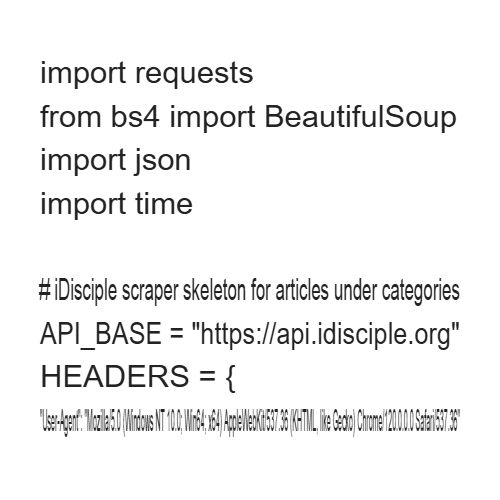
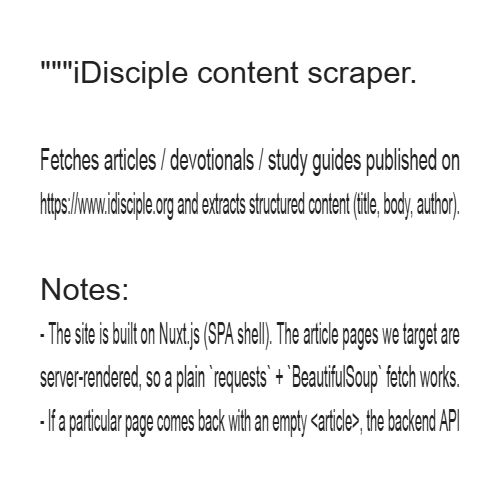
feat: add iDisciple content scraper script

diff --git a/script/py/scraper.py b/script/py/scraper.py
@@ -1,46 +1,226 @@
+"""iDisciple content scraper.
+
+Fetches content (articles / devotionals / growth plans) published on
+https://www.idisciple.org and extracts structured content (title, body, author).
+
+Notes:
+- The site is built on Nuxt.js (SPA shell). The content pages we target are
+  server-rendered, so plain `requests` + `BeautifulSoup` works.
+- If a page comes back with an empty body, use the backend API or a browser driver.
+"""
+
+from __future__ import annotations
+
+import argparse
+import json
+import re
+import time
+from pathlib import Path
+from typing import Any, Dict, List, Optional
+from urllib.parse import urljoin
+
 import requests
 from bs4 import BeautifulSoup
-import json
-import time
+from requests.adapters import HTTPAdapter
+from urllib3.util.retry import Retry
 
-# iDisciple scraper skeleton for articles under categories
+SITE_URL = "https://www.idisciple.org"
 API_BASE = "https://api.idisciple.org"
+DEFAULT_HISTORY_FILE = r"C:\src\poc\script\py\idisciple_history.json"
+
 HEADERS = {
-    "User-Agent": "Mozilla/5.0 (Windows NT 10.0; Win64; x64) AppleWebKit/537.36 (KHTML, like Gecko) Chrome/120.0.0.0 Safari/537.36"
+    "User-Agent": (
+        "Mozilla/5.0 (Windows NT 10.0; Win64; x64) AppleWebKit/537.36 "
+        "(KHTML, like Gecko) Chrome/120.0.0.0 Safari/537.36"
+    ),
+    "Accept": "text/html,application/xhtml+xml,application/xml;q=0.9,*/*;q=0.8",
+    "Accept-Language": "en-US,en;q=0.9",
 }
 
-def get_categories():
-    # You can fetch categories from the main site or load them from a predefined list
-    url = "https://www.idisciple.org/categories"
-    resp = requests.get(url, headers=HEADERS)
-    print(f"Fetched categories page: {resp.status_code}")
-    # In a full pipeline, parse Nuxt payload or HTML links here.
+TIMEOUT_SECONDS = 30
+MAX_RETRIES = 3
+RETRY_STATUS_CODES = (429, 500, 502, 503, 504)
+REQUEST_DELAY_SECONDS = 0.5
 
-def scrape_article(article_url):
-    print(f"Scraping article: {article_url}")
-    resp = requests.get(article_url, headers=HEADERS)
-    if resp.status_code != 200:
-        print(f"Failed to fetch {article_url}: Status {resp.status_code}")
-        return None
-    
-    soup = BeautifulSoup(resp.text, 'html.parser')
-    
-    # Extract title, body, author, etc. based on typical iDisciple article page structure
-    title = soup.find('h1')
-    title_text = title.get_text(strip=True) if title else "No Title"
-    
-    # Extract main article content body
-    body_container = soup.find('article') or soup.find('div', class_=lambda x: x and 'content' in x.lower())
-    body_text = body_container.get_text(separator='\n', strip=True) if body_container else ""
-    
-    article_data = {
-        "url": article_url,
-        "title": title_text,
-        "body": body_text
-    }
-    return article_data
+SESSION = requests.Session()
+SESSION.headers.update(HEADERS)
+SESSION.mount(
+    "https://",
+    HTTPAdapter(
+        max_retries=Retry(
+            total=MAX_RETRIES, backoff_factor=1.0, status_forcelist=list(RETRY_STATUS_CODES)
+        )
+    ),
+)
+SESSION.mount(
+    "http://",
+    HTTPAdapter(
+        max_retries=Retry(
+            total=MAX_RETRIES, backoff_factor=1.0, status_forcelist=list(RETRY_STATUS_CODES)
+        )
+    ),
+)
+
+MIN_BODY_CHARS = 80
+BANNED_CLASS_PARTS = ("nav", "footer", "header", "aside", "sidebar", "related", "breadcrumb", "ad")
+BANNED_TAGS = ("nav", "footer", "header", "aside")
+
+
+def _fetch(url: str) -> str:
+    """GET a URL with retries/timeouts; raise on final failure."""
+    resp = SESSION.get(url, timeout=TIMEOUT_SECONDS)
+    resp.raise_for_status()
+    return resp.text
+
+
+def _clean_text(value: str) -> str:
+    """Collapse whitespace and strip stray newlines."""
+    lines = [re.sub(r"\s+", " ", line).strip() for line in value.split("\n")]
+    return "\n".join(line for line in lines if line)
+
+
+def _extract_title(soup: BeautifulSoup) -> str:
+    h1 = soup.find("h1")
+    if h1:
+        title = h1.get_text(strip=True)
+        if title:
+            return title
+    og = soup.find("meta", property="og:title")
+    if og and og.get("content"):
+        return og["content"]
+    tag = soup.find("title")
+    if tag:
+        return tag.get_text(strip=True)
+    return ""
+
+
+def _contains_banned(el: BeautifulSoup) -> bool:
+    stack = [el]
+    while stack:
+        node = stack.pop()
+        if node.name is not None and str(node.name).lower() in BANNED_TAGS:
+            return True
+        classes = " ".join(node.get("class") or []).lower()
+        if any(part in classes for part in BANNED_CLASS_PARTS):
+            return True
+        stack.extend(node.find_all(True))
+    return False
+
+
+def _extract_body(soup: BeautifulSoup) -> str:
+    article = soup.find("article")
+    if article is not None and len(_clean_text(article.get_text(separator="\n", strip=True))) >= MIN_BODY_CHARS:
+        for unwanted in article.find_all(["script", "style", "noscript", "svg", "iframe"]):
+            unwanted.decompose()
+        return _clean_text(article.get_text(separator="\n", strip=True))
+
+    main = soup.find("main")
+    if main is not None and len(_clean_text(main.get_text(separator="\n", strip=True))) >= MIN_BODY_CHARS:
+        for unwanted in main.find_all(["script", "style", "noscript", "svg", "iframe"]):
+            unwanted.decompose()
+        return _clean_text(main.get_text(separator="\n", strip=True))
+
+    best: Optional[BeautifulSoup] = None
+    best_text = ""
+    for el in soup.find_all(["div", "section", "article", "main"]):
+        if _contains_banned(el):
+            continue
+        for unwanted in el.find_all(["script", "style", "noscript", "svg", "iframe"]):
+            unwanted.decompose()
+        text = _clean_text(el.get_text(separator="\n", strip=True))
+        if len(text) > len(best_text):
+            best, best_text = el, text
+    if best is not None and len(best_text) >= MIN_BODY_CHARS:
+        return best_text
+    return best_text
+
+
+def _extract_author(soup: BeautifulSoup, body: str) -> str:
+    author = ""
+    author_tag = soup.find("meta", attrs={"name": "author"})
+    if author_tag and author_tag.get("content"):
+        author = author_tag["content"].strip()
+    if not author:
+        match = re.search(r"Written by[:\-]?\s+(.+)", body, re.IGNORECASE)
+        if match:
+            author = match.group(1).strip()
+    return author
+
+
+def scrape_article(article_url: str) -> Dict[str, Any]:
+    """Scrape a single iDisciple content page and return structured fields."""
+    html = _fetch(article_url)
+    soup = BeautifulSoup(html, "html.parser")
+    title = _extract_title(soup)
+    body = _extract_body(soup)
+    author = _extract_author(soup, body)
+    return {"url": article_url, "title": title, "body": body, "author": author}
+
+
+def load_history(path: str = DEFAULT_HISTORY_FILE) -> set:
+    """Load previously scraped URLs from a JSON history file."""
+    history_path = Path(path)
+    if not history_path.exists():
+        return set()
+    try:
+        data = json.loads(history_path.read_text(encoding="utf-8"))
+        urls = data.get("urls") if isinstance(data, dict) else data
+        if isinstance(urls, list):
+            return {u for u in urls if isinstance(u, str)}
+    except Exception:
+        return set()
+    return set()
+
+
+def save_history(urls: List[str], path: str = DEFAULT_HISTORY_FILE) -> None:
+    """Persist scraped URLs to a JSON history file."""
+    p = Path(path)
+    p.parent.mkdir(parents=True, exist_ok=True)
+    p.write_text(json.dumps({"urls": sorted(set(urls))}, indent=2), encoding="utf-8")
+
+
+def main(argv: Optional[List[str]] = None) -> int:
+    parser = argparse.ArgumentParser(description="Scrape iDisciple content.")
+    parser.add_argument("--urls", nargs="*", help="Full content URLs to scrape.")
+    parser.add_argument("--limit", type=int, default=None, help="Max items per run.")
+    parser.add_argument("--out", default="idisciple_scraped.json")
+    parser.add_argument("--history", default=DEFAULT_HISTORY_FILE, help="Path to JSON history file of scraped URLs.")
+    args = parser.parse_args(argv)
+
+    history = load_history(args.history)
+    results: List[Dict[str, Any]] = []
+    errors: List[Dict[str, str]] = []
+    processed = 0
+
+    if args.urls:
+        urls = [u if u.startswith("http") else f"{SITE_URL}/{u.strip('/')}/" for u in args.urls]
+        for url in urls:
+            if args.limit is not None and processed >= args.limit:
+                break
+            if url in history:
+                print(f"SKIP: {url} (already scraped, found in history)")
+                continue
+            processed += 1
+            try:
+                data = scrape_article(url)
+                results.append(data)
+                print(f"OK: {url} :: {data.get('title')}")
+            except Exception as exc:
+                errors.append({"url": url, "error": str(exc)})
+                print(f"ERR: {url} :: {exc}")
+            time.sleep(REQUEST_DELAY_SECONDS)
+
+    scraped_urls = [r.get("url") for r in results if r.get("url")]
+    history.update(scraped_urls)
+    save_history(sorted(history), args.history)
+
+    out_path = Path(args.out)
+    out_path.parent.mkdir(parents=True, exist_ok=True)
+    out_path.write_text(json.dumps({"scraped": results, "errors": errors}, indent=2, ensure_ascii=False), encoding="utf-8")
+
+    print(f"Scraped {len(results)} items -> {args.out}")
+    return 0
+
 
 if __name__ == "__main__":
-    print("iDisciple Scraper Script template created successfully.")
-    print("Note: iDisciple relies heavily on client-side rendering (Nuxt.js / SPA).")
-    print("For full dynamic scraping, consider using Playwright or Selenium, or querying their backend API directly.")
+    raise SystemExit(main())
